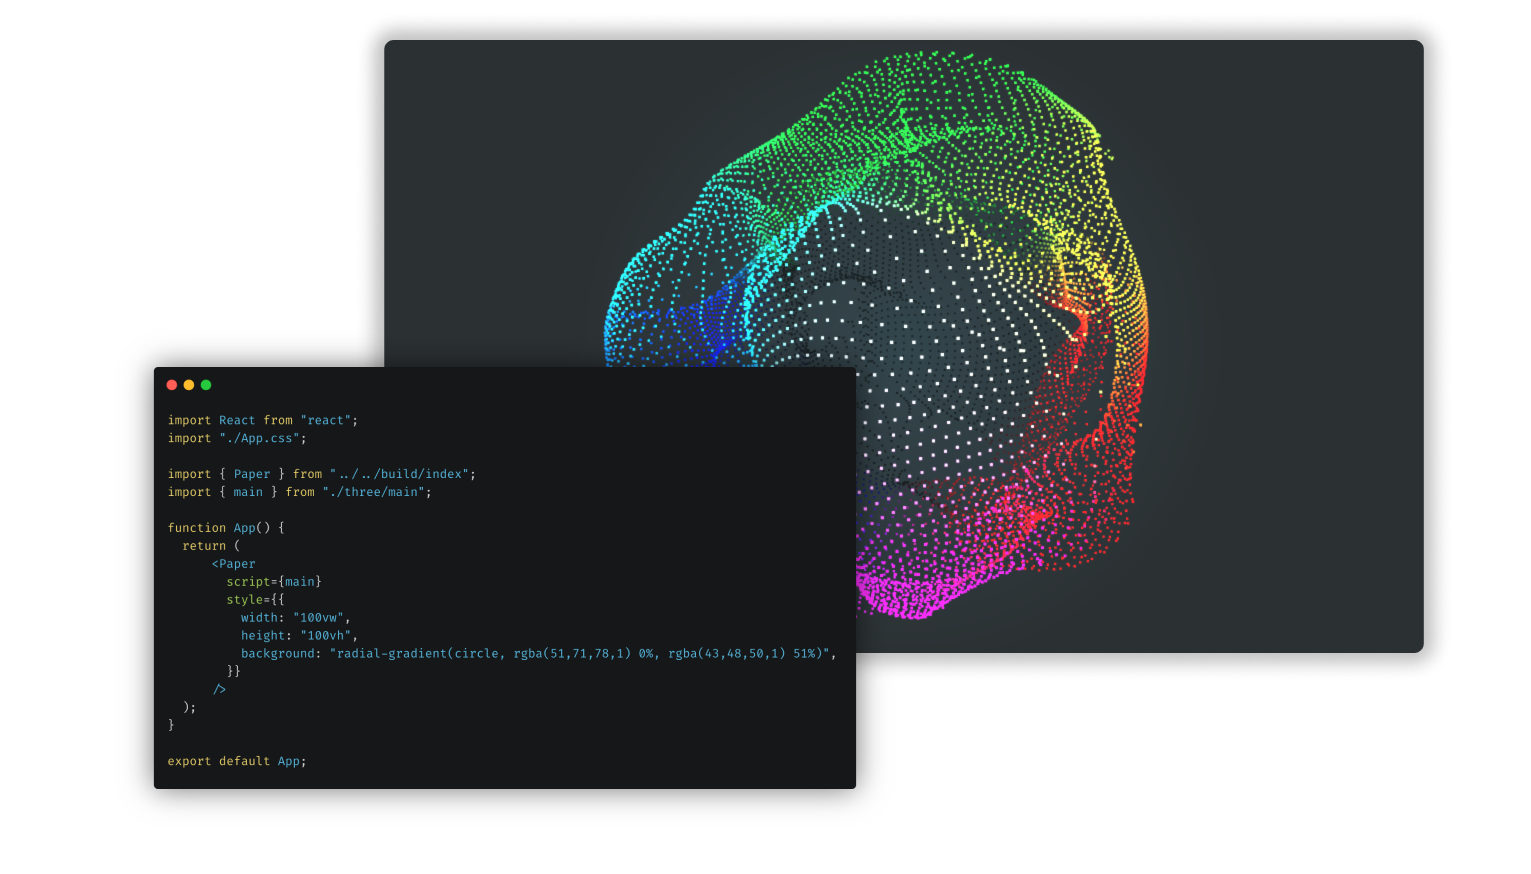
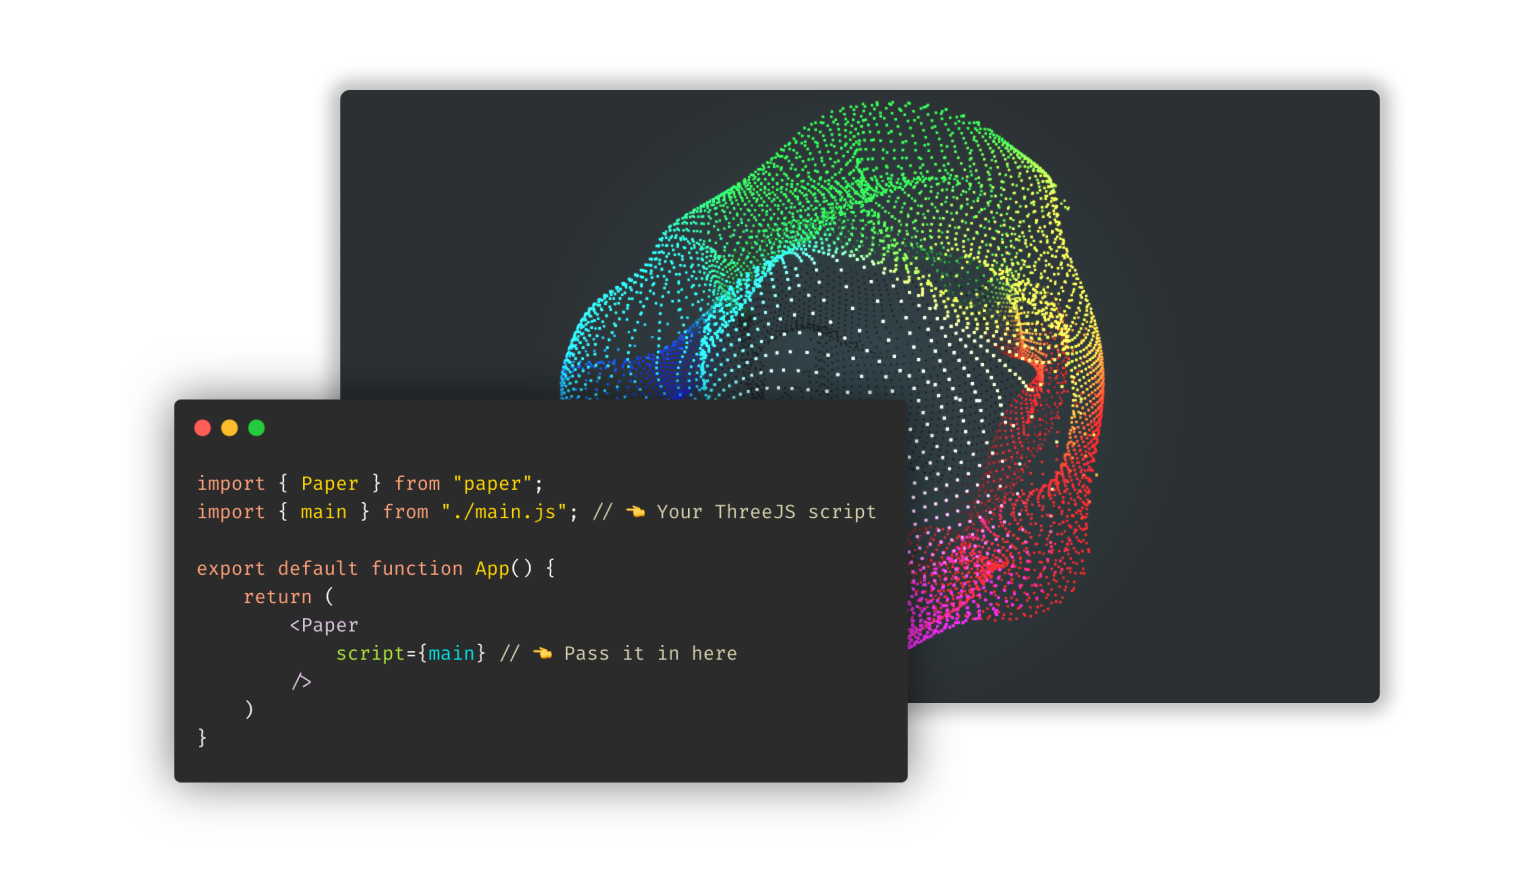
1.0.2

Changed region(s): [[0.0921, 0.0309, 0.9517, 0.9268], [0.4298, 0.5561, 0.5219, 0.6178]]

diff --git a/build/paper.js b/build/paper.js
@@ -1,2 +1,2 @@
 import n,{useRef as e,useState as t,useCallback as r,useEffect as c}from"react";const o={threshold:.01};function i({script:i,style:s,onExit:a,onEntry:l,onError:u}){const m=e(null),[h,f]=t(null),y=r((async(n,e)=>{try{const e=await n;f(e)}catch(n){e(n)}}),[]);return c((()=>{let n=0;if(null!==h){const{render:t,cleanup:r}=h;function e(r){t(r),n=requestAnimationFrame(e)}let c=new IntersectionObserver((([t])=>{const{isIntersecting:r}=t;r?(l&&l(t),n=requestAnimationFrame(e)):(a&&a(t),cancelAnimationFrame(n))}),o);return c.observe(m.current),()=>{c.disconnect(),r&&r()}}y(i(m.current),(e=>{console.error(e),cancelAnimationFrame(n),u&&u(e)}))}),[i,m,h]),n.createElement("canvas",{ref:m,style:{width:"100%",height:"100%",...s}})}export{i as Paper};
-//# sourceMappingURL=index.js.map
+//# sourceMappingURL=paper.js.map

diff --git a/build/index.d.ts b/build/index.d.ts
@@ -1,0 +1,19 @@
+import React from "react";
+declare type tPaperRenderLoop = (time?: number) => void;
+declare type tPaperCleanup = () => void;
+declare type tPaperScriptReturn = {
+    render: tPaperRenderLoop;
+    cleanup?: tPaperCleanup;
+};
+declare type tPaperScript = (canvas?: HTMLCanvasElement) => Promise<tPaperScriptReturn>;
+declare type tPaperPositionEvent = (entry: IntersectionObserverEntry) => void;
+declare type tPaperErrorEvent = (error: Error) => void;
+interface iPaperPropTypes {
+    script: tPaperScript;
+    onExit?: tPaperPositionEvent;
+    onEntry?: tPaperPositionEvent;
+    onError?: tPaperErrorEvent;
+    style?: React.CSSProperties;
+}
+export declare function Paper({ script, style, onExit, onEntry, onError }: iPaperPropTypes): JSX.Element;
+export {};

diff --git a/rollup.config.js b/rollup.config.js
@@ -1,6 +1,5 @@
 import peerDepsExternal from "rollup-plugin-peer-deps-external";
 import resolve from "@rollup/plugin-node-resolve";
-import commonjs from "@rollup/plugin-commonjs";
 import typescript from "rollup-plugin-typescript2";
 import { terser } from "rollup-plugin-terser";
 import cleanup from "rollup-plugin-cleanup";

diff --git a/example/src/App.js b/example/src/App.js
@@ -1,6 +1,6 @@
 import React from "react";
+import { Paper } from "react-three-paper";
 import "./App.css";
-import { Paper } from "../lib/index";
 import { main } from "./three/main";
 
 function App() {

diff --git a/README.md b/README.md
@@ -4,7 +4,7 @@
   <h1 align="center">react-three-paper</h1>
   
   <p align="center">
-    A paper-thin (~800 bytes), position aware wrapper for ThreeJS with React.
+    A paper-thin (~800 bytes<sup>*</sup>) and position-aware wrapper for ThreeJS in React.
     <br />
     <a href="https://farazzshaikh.github.io/react-three-paper/">View Demo</a>
     ·
@@ -36,6 +36,7 @@
 
 <br />
 
+<sup>*</sup> Not including the Source Map and types.
 
 ## But why?
 
@@ -66,13 +67,21 @@ npm install react-three-paper
 yarn add react-three-paper
 ```
 
+**`react-three-paper` requires `react >=16.8.0`**
+
+```bash
+npm install react
+# or
+yarn add react
+```
+
 ## Usage
 
 Import the `Paper` component and use it like this:
 
 ```jsx
-import { Paper } from "../../build/index";
-import { main } from "./three/main.js"; // 👈 Your ThreeJS script
+import { Paper } from "paper";
+import { main } from "./main.js"; // 👈 Your ThreeJS script
 
 export default function App() {
     return (
@@ -105,10 +114,10 @@ export async function main(canvas) {
 }
 ```
 
-Essentially, a function that receives a `canvas` element (that is used as the ThreeJS canvas) and returns a promise which resolves a couple function.
+Essentially, a function that receives a `canvas` element (that is used as the ThreeJS canvas) and returns a promise which resolves to a couple of functions.
 
 - `render`: Your render loop without `requestAnimationFrame` as this is handled by `react-three-paper`.
-- `cleanup`: An optinal cleanup function without `cancleAnimationFrame`.
+- `cleanup`: An optional cleanup function without `cancleAnimationFrame`.
 
 **Pass this function directly into the `script` prop.**
 
@@ -117,7 +126,7 @@ Essentially, a function that receives a `canvas` element (that is used as the Th
 An example app can be found within the `example` directory. It is also hosted [here](https://farazzshaikh.github.io/react-three-paper/example). See:
 
 - `example/src/App.js`: For `Paper` component usage. 
-- `example/src/three/main.js`: For how an example of how to format your main function.
+- `example/src/three/main.js`: For an example of how to format your main function.
 
 ### Advanced Usage
 
@@ -172,7 +181,7 @@ An optional cleanup function.
 
 #### `tPaperScriptReturn`
 
-The return value of the function passed to the `script` prop.
+The return value of the function is passed to the `script` prop.
 
 ```ts
 type tPaperScriptReturn = {

diff --git a/example/README.md b/example/README.md
@@ -13,24 +13,13 @@
   <p align="center">
     <a href="https://www.npmjs.com/package/react-three-paper"><img align="center" src="https://img.shields.io/npm/v/react-three-paper?color=cc3534&style=for-the-badge" /></a>
   </p>
-
-  <p align="center">
-    My work is for and funded by the community. If you used this or found this helpful consider supporting me.
-  </p>
-
-  <p align="center">
-    <a href="https://farazzshaikh.github.io/experiments/examples/support.html?via=ETH"><img align="center" src="https://img.shields.io/badge/Ethereum-A6A9AA?style=for-the-badge&logo=ethereum&logoColor=white" /></a>
-    <a href="https://farazzshaikh.github.io/experiments/examples/support.html?via=BTC"><img align="center" src="https://img.shields.io/badge/Bitcoin-000000?style=for-the-badge&logo=bitcoin&logoColor=white" /></a>
-    <a href="https://farazzshaikh.github.io/experiments/examples/support.html?via=DOGE"><img align="center" src="https://img.shields.io/badge/dogecoin-C2A633?style=for-the-badge&logo=dogecoin&logoColor=white" /></a>
-     <a href="https://paypal.me/farazzshaikh"><img align="center" src="https://img.shields.io/badge/PayPal-00457C?style=for-the-badge&logo=paypal&logoColor=white" /></a>
-  </p>
 </p>
 
 
 <br />
 
   <p align="center">
-    <img src="Assets/banner.png" ></img>
+    <img src="../Assets/banner.png" ></img>
     65k particles in React using Three.js via <code>react-three-paper</code>.
   </p>
 
@@ -41,7 +30,7 @@
 - `src`:
   - `three`
     - Main ThreeJS code
-  = `App.js`:
+  - `App.js`:
     - Connecting ThreeJS and React using `react-three-paper`
 
 ## To run

diff --git a/CHANGELOG.md b/CHANGELOG.md
@@ -5,6 +5,12 @@ All notable changes to this project will be documented in this file.
 The format is based on [Keep a Changelog](https://keepachangelog.com/en/1.0.0/),
 and this project adheres to [Semantic Versioning](https://semver.org/spec/v2.0.0.html).
 
+## Version 1.0.2
+
+### Added
+
+- Typescript types
+
 ## Version 1.0.1
 
 ### Added
